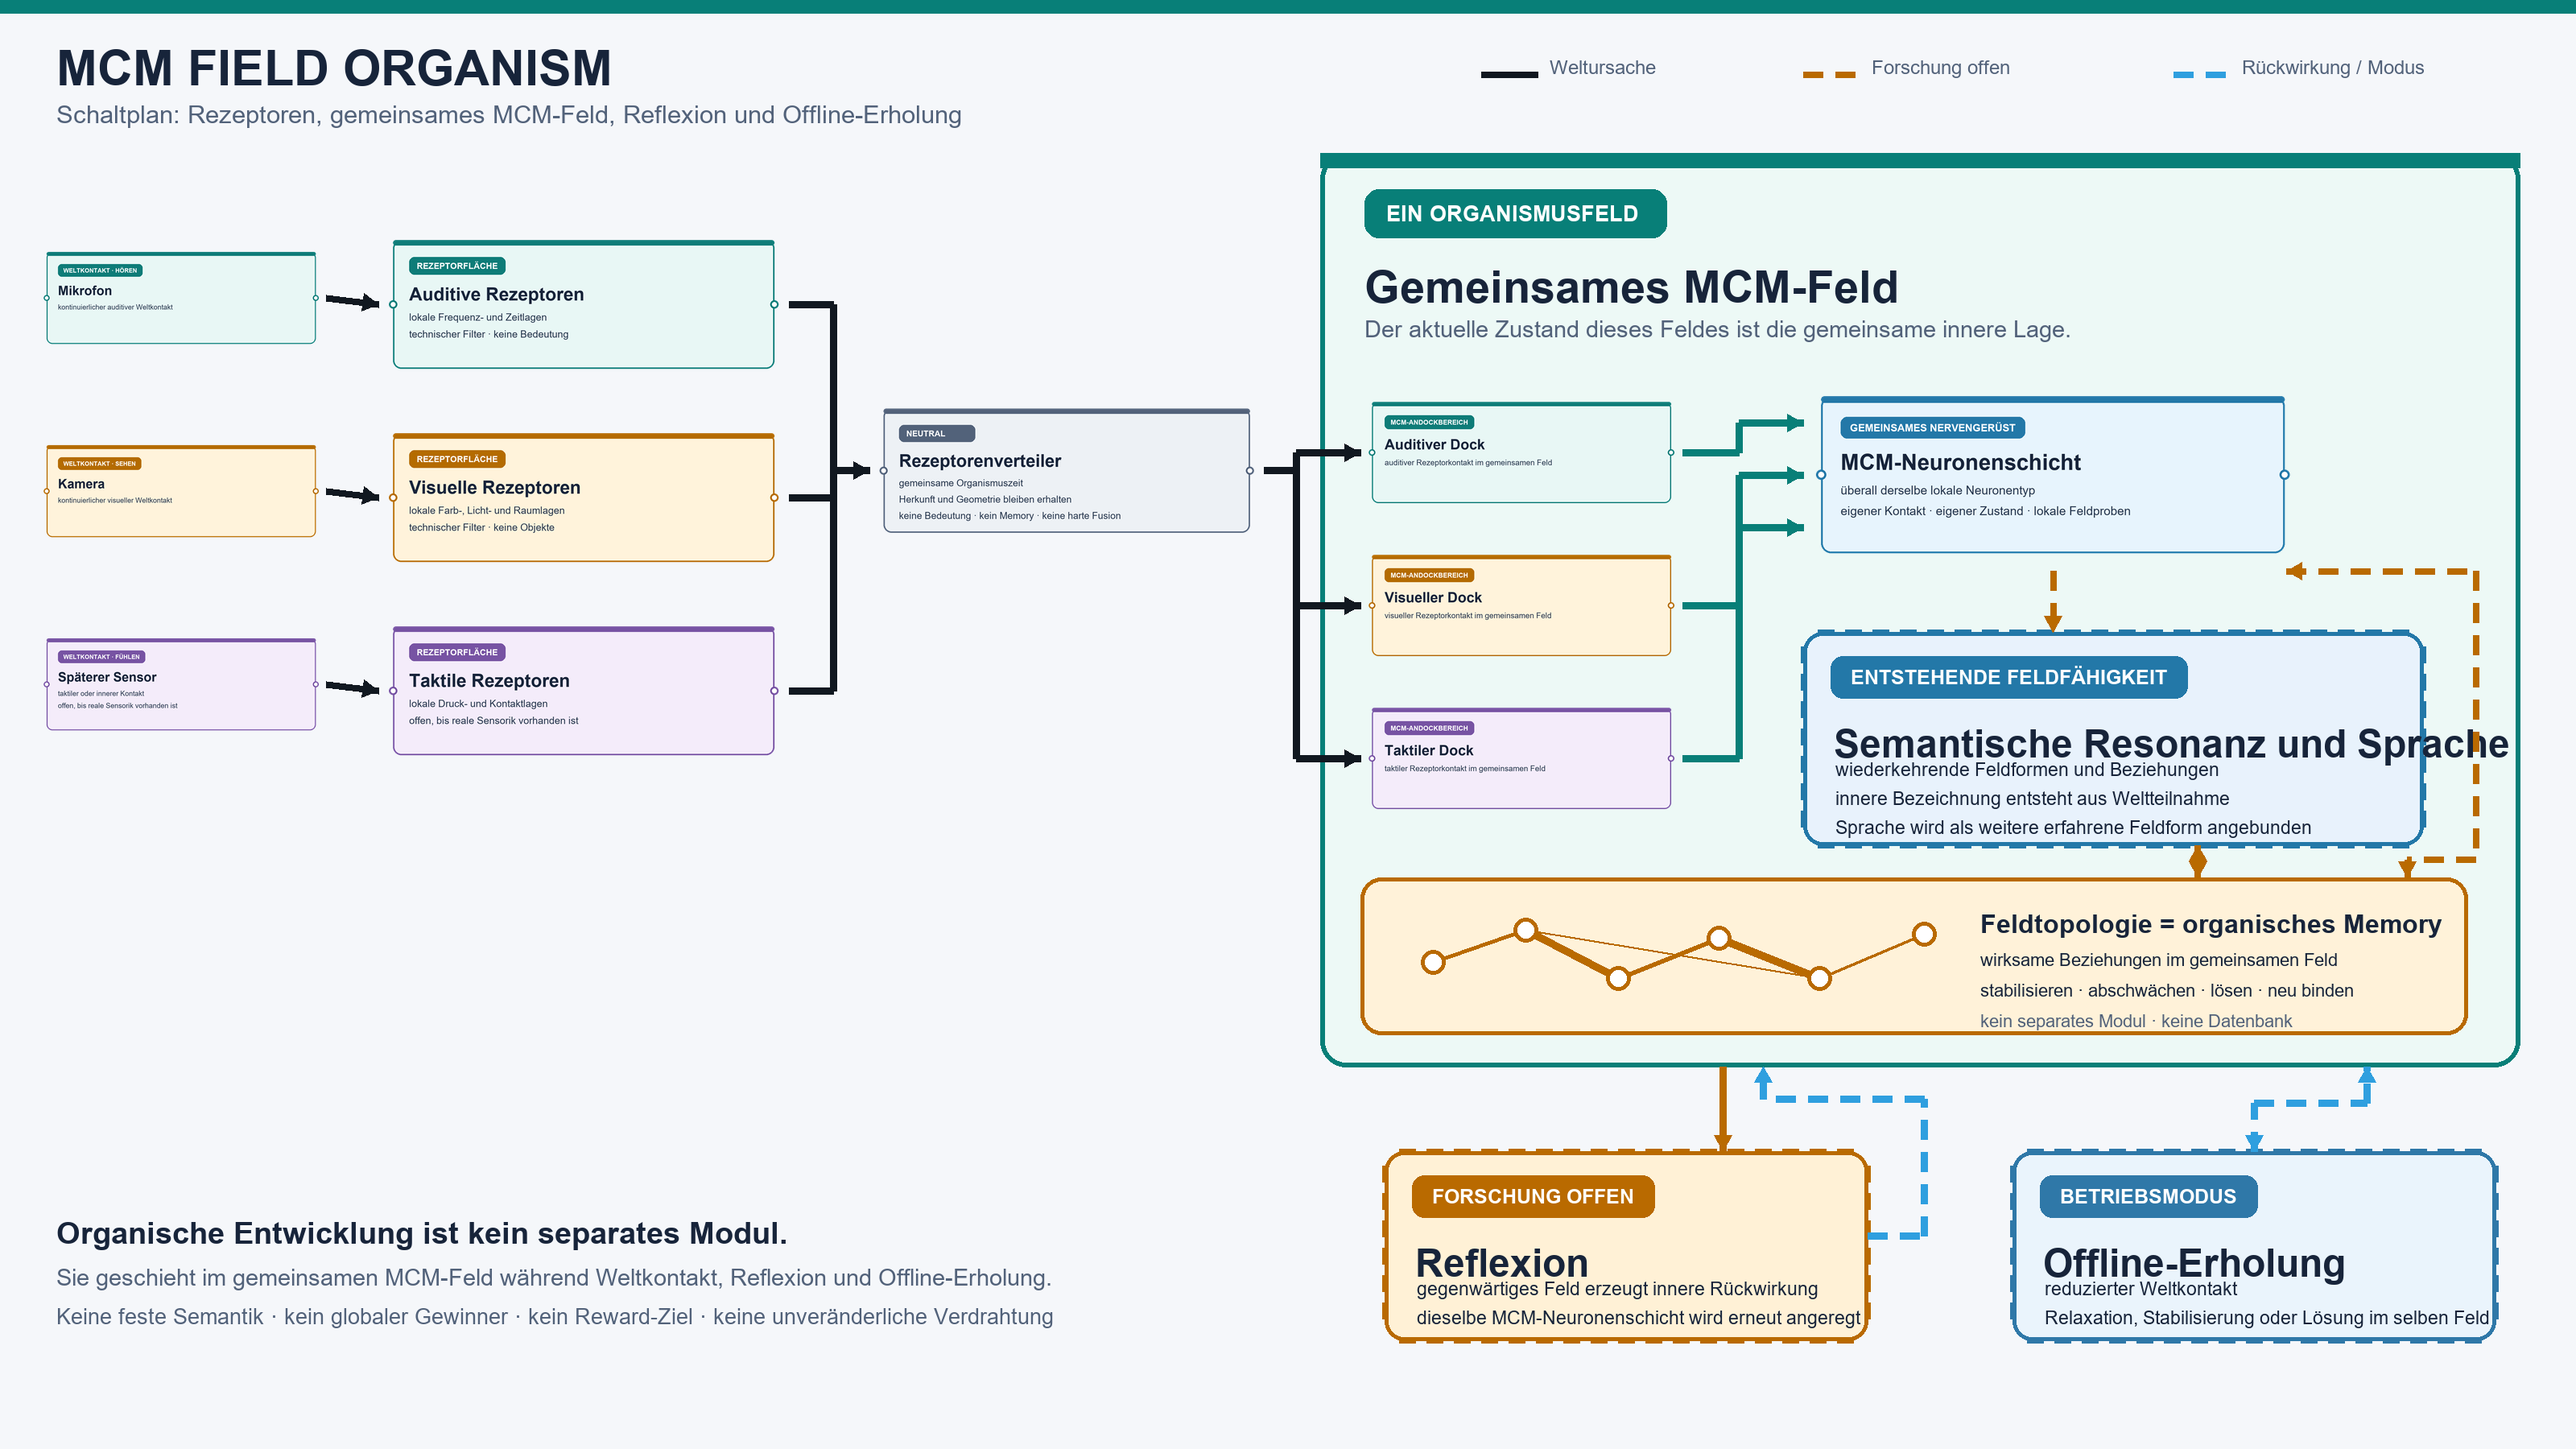
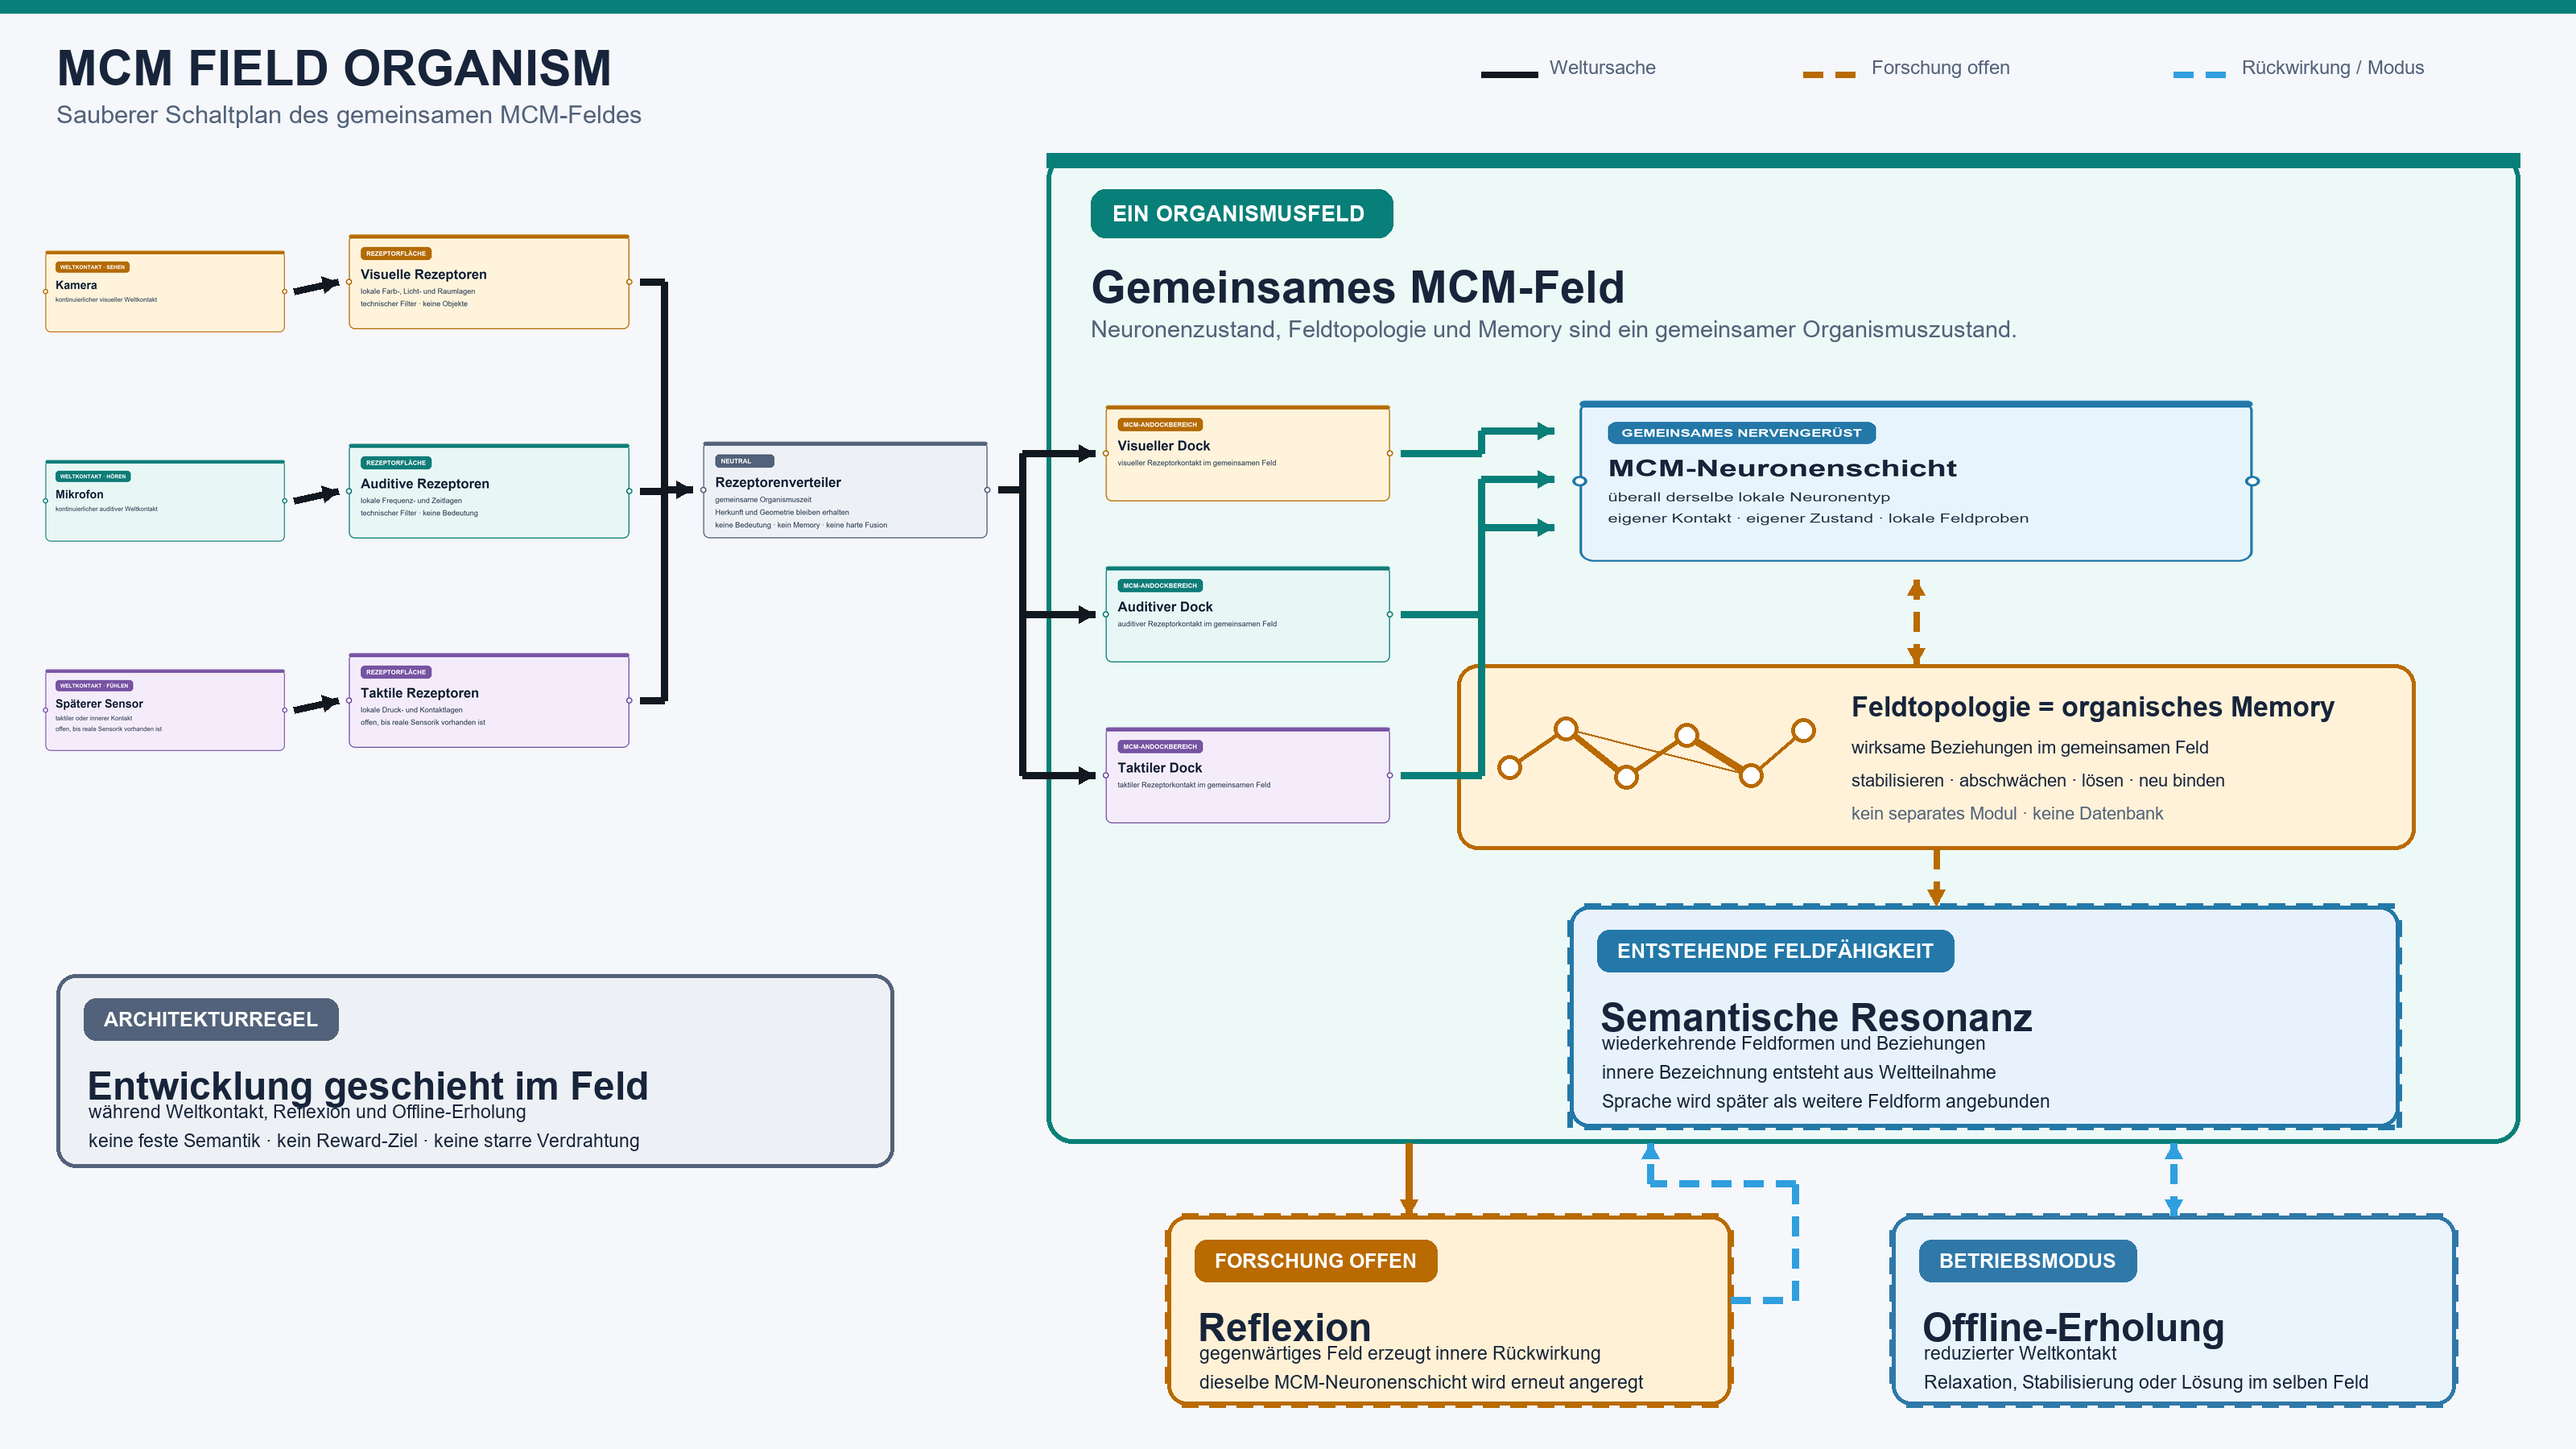
docs: clean up shared MCM schematic

diff --git a/tools/generate_shared_mcm_schematic.py b/tools/generate_shared_mcm_schematic.py
@@ -188,12 +188,12 @@ def network_band(
         width=5,
     )
     nodes = (
-        (x0 + 90, y0 + 105),
-        (x0 + 205, y0 + 65),
-        (x0 + 320, y0 + 125),
-        (x0 + 445, y0 + 75),
-        (x0 + 570, y0 + 125),
-        (x0 + 700, y0 + 70),
+        (x0 + 65, y0 + 128),
+        (x0 + 135, y0 + 80),
+        (x0 + 210, y0 + 140),
+        (x0 + 285, y0 + 88),
+        (x0 + 365, y0 + 138),
+        (x0 + 430, y0 + 82),
     )
     for first, second, strength in (
         (0, 1, 5),
@@ -207,25 +207,25 @@ def network_band(
     for x, y in nodes:
         draw.ellipse((x - 15, y - 15, x + 15, y + 15), fill="#FFFFFF", outline=ORANGE, width=5)
     draw.text(
-        (x0 + 770, y0 + 40),
+        (x0 + 490, y0 + 34),
         "Feldtopologie = organisches Memory",
-        font=font(32, bold=True),
+        font=font(34, bold=True),
         fill=INK,
     )
     draw.text(
-        (x0 + 770, y0 + 90),
+        (x0 + 490, y0 + 91),
         "wirksame Beziehungen im gemeinsamen Feld",
         font=font(22),
         fill=INK,
     )
     draw.text(
-        (x0 + 770, y0 + 128),
+        (x0 + 490, y0 + 132),
         "stabilisieren · abschwächen · lösen · neu binden",
         font=font(22),
         fill=INK,
     )
     draw.text(
-        (x0 + 770, y0 + 166),
+        (x0 + 490, y0 + 173),
         "kein separates Modul · keine Datenbank",
         font=font(22),
         fill=MUTED,
@@ -237,15 +237,10 @@ def main() -> None:
     draw = ImageDraw.Draw(canvas)
 
     draw.rectangle((0, 0, WIDTH, 16), fill=TEAL)
-    draw.text(
-        (70, 50),
-        "MCM FIELD ORGANISM",
-        font=font(61, bold=True),
-        fill=INK,
-    )
+    draw.text((70, 50), "MCM FIELD ORGANISM", font=font(61, bold=True), fill=INK)
     draw.text(
         (70, 124),
-        "Schaltplan: Rezeptoren, gemeinsames MCM-Feld, Reflexion und Offline-Erholung",
+        "Sauberer Schaltplan des gemeinsamen MCM-Feldes",
         font=font(31),
         fill=MUTED,
     )
@@ -258,19 +253,19 @@ def main() -> None:
     draw.text((2785, 70), "Rückwirkung / Modus", font=font(24), fill=MUTED)
 
     sensor_boxes = (
-        ("01_mikrofon", (45, 300, 405, 440)),
-        ("02_kamera", (45, 540, 405, 680)),
-        ("03_spaeterer_sensor", (45, 780, 405, 920)),
+        ("02_kamera", (45, 300, 365, 424)),
+        ("01_mikrofon", (45, 560, 365, 684)),
+        ("03_spaeterer_sensor", (45, 820, 365, 944)),
     )
     receptor_boxes = (
-        ("04_auditive_rezeptorflaeche", (470, 280, 980, 476)),
-        ("05_visuelle_rezeptorflaeche", (470, 520, 980, 716)),
-        ("06_taktile_rezeptorflaeche", (470, 760, 980, 956)),
+        ("05_visuelle_rezeptorflaeche", (420, 278, 795, 422)),
+        ("04_auditive_rezeptorflaeche", (420, 538, 795, 682)),
+        ("06_taktile_rezeptorflaeche", (420, 798, 795, 942)),
     )
     for stem, box in sensor_boxes + receptor_boxes:
         paste_block(canvas, stem, box)
 
-    distributor = (1080, 490, 1570, 679)
+    distributor = (860, 535, 1240, 682)
     paste_block(canvas, "07_neutraler_rezeptorenverteiler", distributor)
 
     for sensor, receptor in zip(sensor_boxes, receptor_boxes):
@@ -286,14 +281,14 @@ def main() -> None:
         )
 
     distributor_input = (distributor[0], (distributor[1] + distributor[3]) // 2)
-    bus_x = 1035
-    draw.line((bus_x, 378, bus_x, 858), fill=BLACK, width=9)
+    bus_x = 825
+    draw.line((bus_x, 350, bus_x, 870), fill=BLACK, width=9)
     for _, receptor_box in receptor_boxes:
         y = (receptor_box[1] + receptor_box[3]) // 2
         draw.line((receptor_box[2], y, bus_x, y), fill=BLACK, width=9)
     connector(draw, ((bus_x, distributor_input[1]), distributor_input), fill=BLACK, width=9)
 
-    field = (1640, 190, 3130, 1325)
+    field = (1300, 190, 3130, 1420)
     draw.rounded_rectangle(
         field,
         radius=32,
@@ -301,49 +296,49 @@ def main() -> None:
         outline=FIELD_BORDER,
         width=6,
     )
-    draw.rectangle((1640, 190, 3130, 208), fill=TEAL)
-    draw.rounded_rectangle((1695, 235, 2070, 295), radius=18, fill=TEAL)
-    draw.text((1722, 250), "EIN ORGANISMUSFELD", font=font(27, bold=True), fill="#FFFFFF")
-    draw.text((1695, 325), "Gemeinsames MCM-Feld", font=font(56, bold=True), fill=INK)
+    draw.rectangle((1300, 190, 3130, 208), fill=TEAL)
+    draw.rounded_rectangle((1355, 235, 1730, 295), radius=18, fill=TEAL)
+    draw.text((1382, 250), "EIN ORGANISMUSFELD", font=font(27, bold=True), fill="#FFFFFF")
+    draw.text((1355, 325), "Gemeinsames MCM-Feld", font=font(56, bold=True), fill=INK)
     draw.text(
-        (1695, 392),
-        "Der aktuelle Zustand dieses Feldes ist die gemeinsame innere Lage.",
+        (1355, 392),
+        "Neuronenzustand, Feldtopologie und Memory sind ein gemeinsamer Organismuszustand.",
         font=font(29),
         fill=MUTED,
     )
 
     dock_boxes = (
-        ("08_auditiver_dock", (1690, 485, 2090, 639)),
-        ("09_visueller_dock", (1690, 675, 2090, 829)),
-        ("10_taktiler_dock", (1690, 865, 2090, 1019)),
+        ("09_visueller_dock", (1360, 490, 1740, 636)),
+        ("08_auditiver_dock", (1360, 690, 1740, 836)),
+        ("10_taktiler_dock", (1360, 890, 1740, 1036)),
     )
     for stem, box in dock_boxes:
         paste_block(canvas, stem, box)
 
-    neuron_box = (2240, 470, 2860, 709)
+    neuron_box = (1930, 475, 2830, 720)
     paste_block(canvas, "12_gemeinsame_mcm_neuronenschicht", neuron_box)
 
-    semantic_box = (2240, 785, 3010, 1050)
+    semantic_box = (1950, 1125, 2980, 1400)
     card(
         draw,
         semantic_box,
         badge="ENTSTEHENDE FELDFÄHIGKEIT",
-        title="Semantische Resonanz und Sprache",
+        title="Semantische Resonanz",
         lines=(
             "wiederkehrende Feldformen und Beziehungen",
             "innere Bezeichnung entsteht aus Weltteilnahme",
-            "Sprache wird als weitere erfahrene Feldform angebunden",
+            "Sprache wird später als weitere Feldform angebunden",
         ),
         fill="#E8F2FC",
         accent="#2378A8",
         dashed=True,
     )
 
-    topology_box = (1690, 1090, 3065, 1285)
+    topology_box = (1810, 825, 3000, 1055)
     network_band(draw, topology_box)
 
     distributor_output = (distributor[2], (distributor[1] + distributor[3]) // 2)
-    dock_bus_x = 1610
+    dock_bus_x = 1270
     connector(
         draw,
         (distributor_output, (dock_bus_x, distributor_output[1])),
@@ -351,17 +346,17 @@ def main() -> None:
         width=9,
         arrow=False,
     )
-    draw.line((dock_bus_x, 562, dock_bus_x, 942), fill=BLACK, width=9)
+    draw.line((dock_bus_x, 563, dock_bus_x, 963), fill=BLACK, width=9)
     for _, box in dock_boxes:
         y = (box[1] + box[3]) // 2
         connector(draw, ((dock_bus_x, y), (box[0], y)), fill=BLACK, width=9)
 
-    neuron_targets = (525, 590, 655)
+    neuron_targets = (535, 595, 655)
     for (_, box), target_y in zip(dock_boxes, neuron_targets):
         y = (box[1] + box[3]) // 2
         connector(
             draw,
-            ((box[2], y), (2160, y), (2160, target_y), (neuron_box[0], target_y)),
+            ((box[2], y), (1840, y), (1840, target_y), (neuron_box[0], target_y)),
             fill=TEAL,
             width=9,
         )
@@ -370,18 +365,7 @@ def main() -> None:
         draw,
         (
             ((neuron_box[0] + neuron_box[2]) // 2, neuron_box[3]),
-            ((neuron_box[0] + neuron_box[2]) // 2, semantic_box[1]),
-        ),
-        fill=ORANGE,
-        width=8,
-        dashed=True,
-    )
-    connector(
-        draw,
-        (
-            (2730, topology_box[1]),
-            (2730, 1068),
-            (2730, semantic_box[3]),
+            ((neuron_box[0] + neuron_box[2]) // 2, topology_box[1]),
         ),
         fill=ORANGE,
         width=8,
@@ -391,20 +375,16 @@ def main() -> None:
     connector(
         draw,
         (
-            (2840, neuron_box[3]),
-            (3075, neuron_box[3]),
-            (3075, 1068),
-            (2990, 1068),
-            (2990, topology_box[1]),
+            ((topology_box[0] + topology_box[2]) // 2, topology_box[3]),
+            ((topology_box[0] + topology_box[2]) // 2, semantic_box[1]),
         ),
         fill=ORANGE,
         width=8,
         dashed=True,
-        start_arrow=True,
     )
 
-    reflection_box = (1720, 1430, 2320, 1665)
-    offline_box = (2500, 1430, 3100, 1665)
+    reflection_box = (1450, 1510, 2150, 1745)
+    offline_box = (2350, 1510, 3050, 1745)
     card(
         draw,
         reflection_box,
@@ -432,20 +412,15 @@ def main() -> None:
         dashed=True,
     )
 
-    connector(
-        draw,
-        ((2140, field[3]), (2140, reflection_box[1])),
-        fill=ORANGE,
-        width=9,
-    )
+    connector(draw, ((1750, field[3]), (1750, reflection_box[1])), fill=ORANGE, width=9)
     connector(
         draw,
         (
-            (reflection_box[2], 1535),
-            (2390, 1535),
-            (2390, 1365),
-            (2190, 1365),
-            (2190, field[3]),
+            (reflection_box[2], 1615),
+            (2230, 1615),
+            (2230, 1470),
+            (2050, 1470),
+            (2050, field[3]),
         ),
         fill=BLUE,
         width=9,
@@ -454,10 +429,8 @@ def main() -> None:
     connector(
         draw,
         (
-            (2800, offline_box[1]),
-            (2800, 1370),
-            (2940, 1370),
-            (2940, field[3]),
+            (2700, offline_box[1]),
+            (2700, field[3]),
         ),
         fill=BLUE,
         width=9,
@@ -465,23 +438,17 @@ def main() -> None:
         start_arrow=True,
     )
 
-    draw.text(
-        (70, 1510),
-        "Organische Entwicklung ist kein separates Modul.",
-        font=font(38, bold=True),
-        fill=INK,
-    )
-    draw.text(
-        (70, 1570),
-        "Sie geschieht im gemeinsamen MCM-Feld während Weltkontakt, Reflexion und Offline-Erholung.",
-        font=font(29),
-        fill=MUTED,
-    )
-    draw.text(
-        (70, 1620),
-        "Keine feste Semantik · kein globaler Gewinner · kein Reward-Ziel · keine unveränderliche Verdrahtung",
-        font=font(27),
-        fill=MUTED,
+    card(
+        draw,
+        (70, 1210, 1110, 1450),
+        badge="ARCHITEKTURREGEL",
+        title="Entwicklung geschieht im Feld",
+        lines=(
+            "während Weltkontakt, Reflexion und Offline-Erholung",
+            "keine feste Semantik · kein Reward-Ziel · keine starre Verdrahtung",
+        ),
+        fill="#EDF1F5",
+        accent="#52627A",
     )
 
     OUTPUT.parent.mkdir(parents=True, exist_ok=True)
